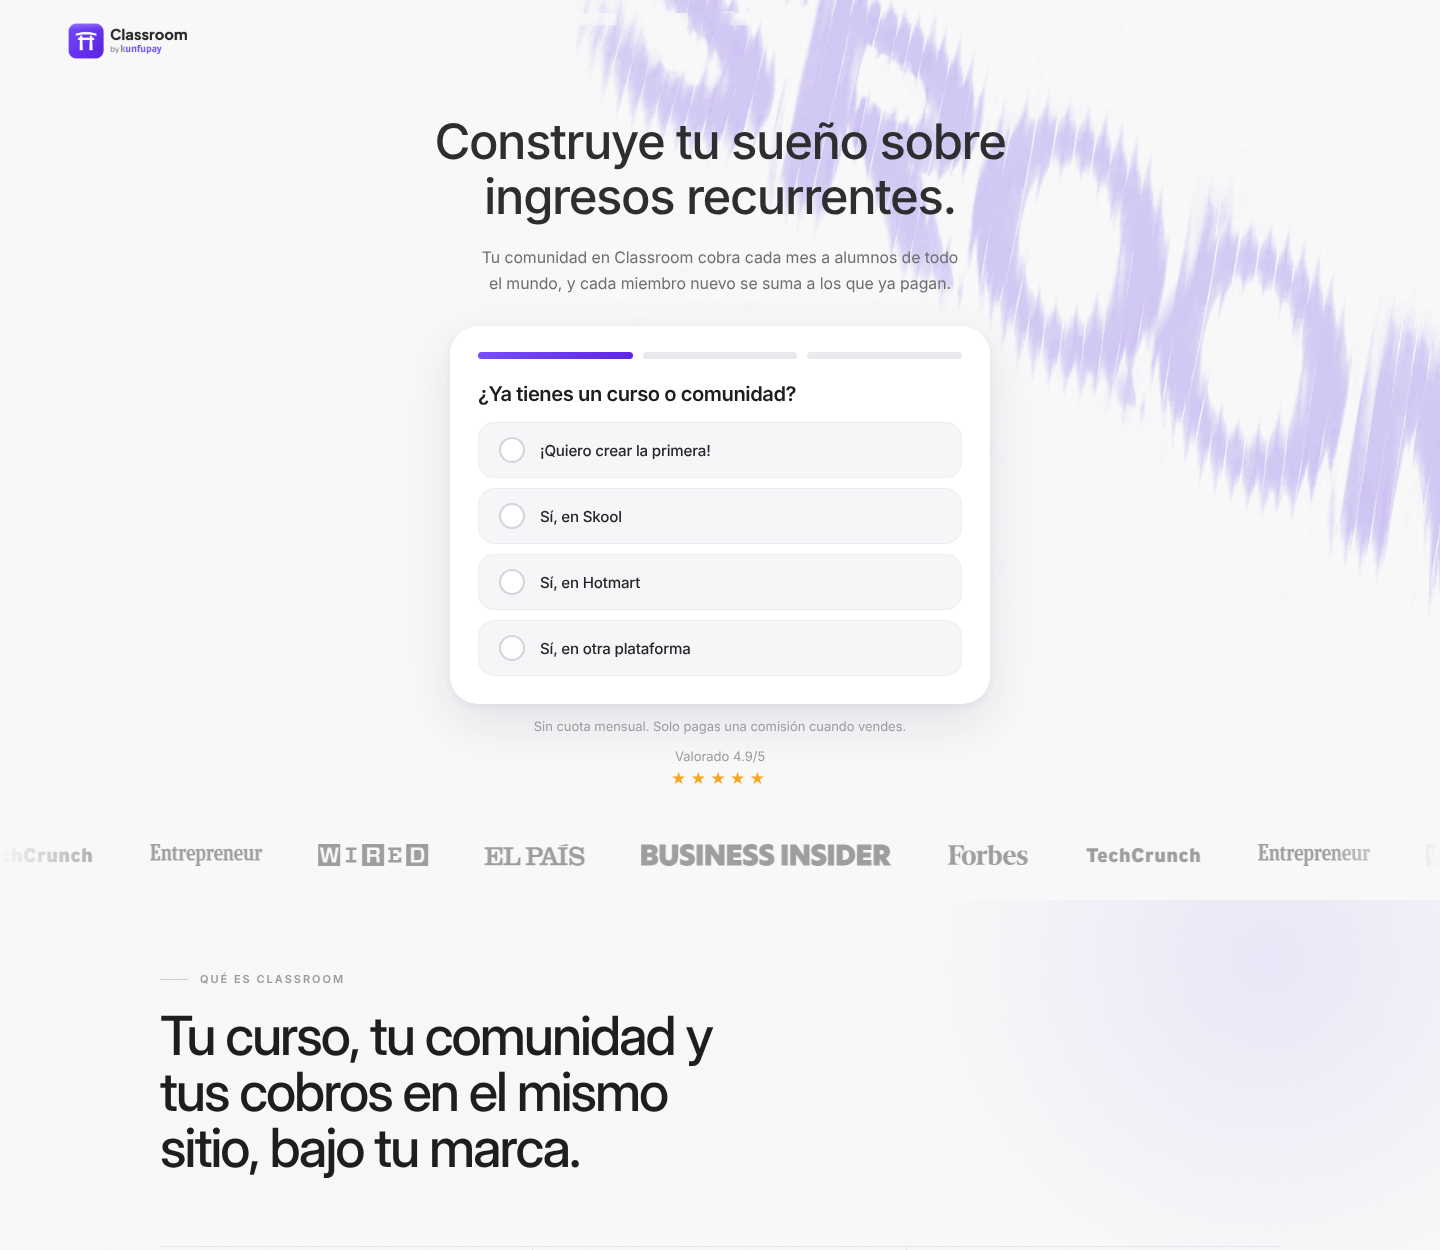
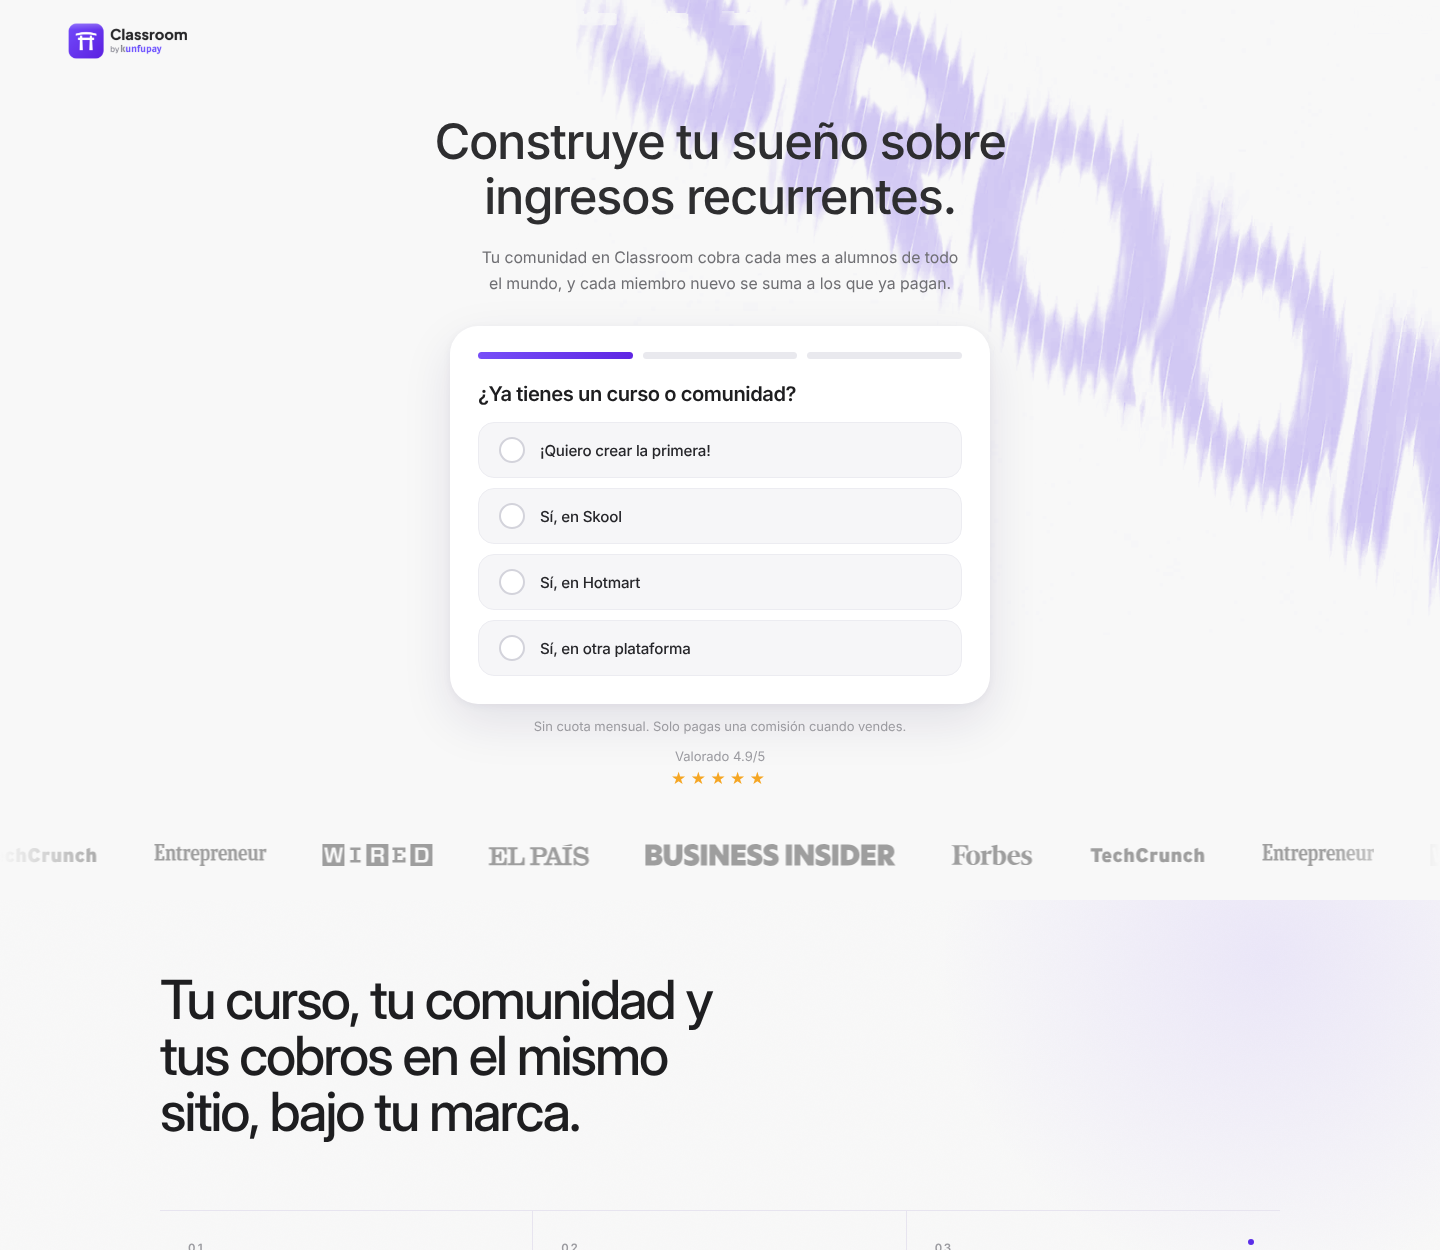
Quita los rótulos sobre los titulares y los enlaces del footer
Fuera los cinco «—— EL PRECIO», «—— QUÉ ES CLASSROOM» y compañía: cada
sección empieza directamente por su titular. Con ellos se va también su CSS.

En el footer quedan el filete, el copyright y el logotipo gigante; los cuatro
enlaces de navegación desaparecen, que en una landing de un solo objetivo no
pintaban nada.

Claude-Session: https://claude.ai/code/session_01BnffaNzGrJ5zZy9uWCipoB

diff --git a/classroom-landing/index.html b/classroom-landing/index.html
@@ -363,11 +363,6 @@ body{
   background:radial-gradient(circle,rgba(119,79,248,.08),transparent 62%)}
 
 /* --- cabeceras: etiqueta con filete, titular editorial --- */
-.label{display:flex;align-items:center;gap:12px;margin-bottom:22px;
-  font-size:11px;font-weight:600;letter-spacing:.18em;text-transform:uppercase;color:var(--faint)}
-.label::before{content:"";width:28px;height:1px;background:currentColor;opacity:.45}
-.head--center .label{justify-content:center}
-.block--ink .label{color:#8c879c}
 .t2{font-family:'Inter Display','Inter',sans-serif;font-size:clamp(30px,4.1vw,54px);font-weight:500;
   line-height:1.04;letter-spacing:-.038em;color:var(--ink-strong);max-width:17ch}
 .head--center .t2{margin-inline:auto}
@@ -463,7 +458,7 @@ html.js .kin.is-in .w{opacity:1;transform:none}
 .tools__sum b{font-family:'Inter Display','Inter',sans-serif;font-size:clamp(22px,2.4vw,30px);font-weight:500;
   letter-spacing:-.035em;color:#9c99a8;text-decoration:line-through;text-decoration-thickness:2px;
   font-variant-numeric:tabular-nums;white-space:nowrap}
-.tools__end{display:flex;align-items:center;justify-content:space-between;gap:24px;flex-wrap:wrap;
+.tools__end{display:flex;align-items:center;justify-content:flex-start;gap:24px;flex-wrap:wrap;
   margin:0 -26px;padding:26px;background:var(--acc);color:#fff}
 .tools__end-k{font-size:13px;letter-spacing:.09em;text-transform:uppercase;color:rgba(255,255,255,.72)}
 .tools__end-t{margin-top:8px;font-size:16px;line-height:1.5;max-width:46ch}
@@ -573,8 +568,6 @@ html.js .kin.is-in .w{opacity:1;transform:none}
 .mega{position:relative;overflow:hidden;background:#0e0d12;padding-top:clamp(40px,6vw,80px)}
 .mega__in{border-top:1px solid rgba(255,255,255,.1);padding-top:26px;display:flex;flex-wrap:wrap;align-items:flex-end;justify-content:space-between;gap:24px;
   width:min(1120px,100% - 56px);margin:0 auto clamp(30px,4vw,52px)}
-.mega__in a{color:#8c879c;font-size:13.5px;text-decoration:none;margin-right:22px;transition:color .2s ease}
-.mega__in a:hover{color:#fff}
 .mega__in p{font-size:12.5px;color:#5f5b6e}
 .mega__word{display:block;width:100%;line-height:.72;text-align:center;
   font-family:'Inter Display','Inter',sans-serif;font-weight:600;letter-spacing:-.055em;
@@ -802,7 +795,6 @@ html.js .kin.is-in .w{opacity:1;transform:none}
   <div class="glow" aria-hidden="true"></div>
   <div class="wrap">
     <div class="head rv">
-      <p class="label">Qué es Classroom</p>
       <h2 class="t2 kin">Tu curso, tu comunidad y tus cobros en el mismo sitio, bajo tu marca.</h2>
     </div>
 
@@ -836,7 +828,6 @@ html.js .kin.is-in .w{opacity:1;transform:none}
 <section class="block block--tint" id="precio">
   <div class="wrap">
     <div class="head rv">
-      <p class="label">El precio</p>
       <h2 class="t2 kin">Cuota mensual: cero. Pagas cuando te paga un alumno.</h2>
       <p class="lead">La cuenta y las herramientas son gratis. Solo hay una comisión variable cuando
         vendes, según rubro, ticket y volumen.</p>
@@ -914,7 +905,6 @@ html.js .kin.is-in .w{opacity:1;transform:none}
   <div class="glow glow--left" aria-hidden="true"></div>
   <div class="wrap">
     <div class="head rv">
-      <p class="label">El recorrido de quien te paga</p>
       <h2 class="t2 kin">Así lo vive tu alumno, de la ficha al examen.</h2>
       <p class="lead">Siete pantallas, todas dentro de tu Classroom. Ficha completa antes de pagar,
         checkout sin salir de tu marca, aula con progreso y comunidad en cada lección.</p>
@@ -961,7 +951,6 @@ html.js .kin.is-in .w{opacity:1;transform:none}
 <section class="block block--tint" id="prueba">
   <div class="wrap">
     <div class="head rv">
-      <p class="label">Frente a lo que usas hoy</p>
       <h2 class="t2 kin">Stripe cobra. Hotmart te da plataforma. <em>Aquí son la misma cosa.</em></h2>
       <p class="lead">Uno se queda con tu margen, ambos dividen tu negocio y ninguno cuenta con cobertura
         internacional.</p>
@@ -1050,7 +1039,6 @@ html.js .kin.is-in .w{opacity:1;transform:none}
 <section class="block block--ink" id="empezar">
   <div class="wrap">
     <div class="head head--center rv">
-      <p class="label">Antes de empezar</p>
       <h2 class="t2 kin">Lo tienes todo preparado. Solo falta tu comunidad.</h2>
       <p class="lead">Creamos tu Classroom, migramos tu catálogo y dejamos los cobros centralizados en la
         misma cuenta. Tú te dedicas a enseñar.</p>
@@ -1088,10 +1076,6 @@ html.js .kin.is-in .w{opacity:1;transform:none}
 
 <footer class="mega">
   <div class="mega__in">
-    <div>
-      <a href="#producto">Producto</a><a href="#precio">Precio</a><a href="#demo">Demo</a>
-      <a href="#empezar">Preguntas</a>
-    </div>
     <p>© 2026 Kunfupay · Classroom</p>
   </div>
   <span class="mega__word" aria-hidden="true">Classroom</span>
